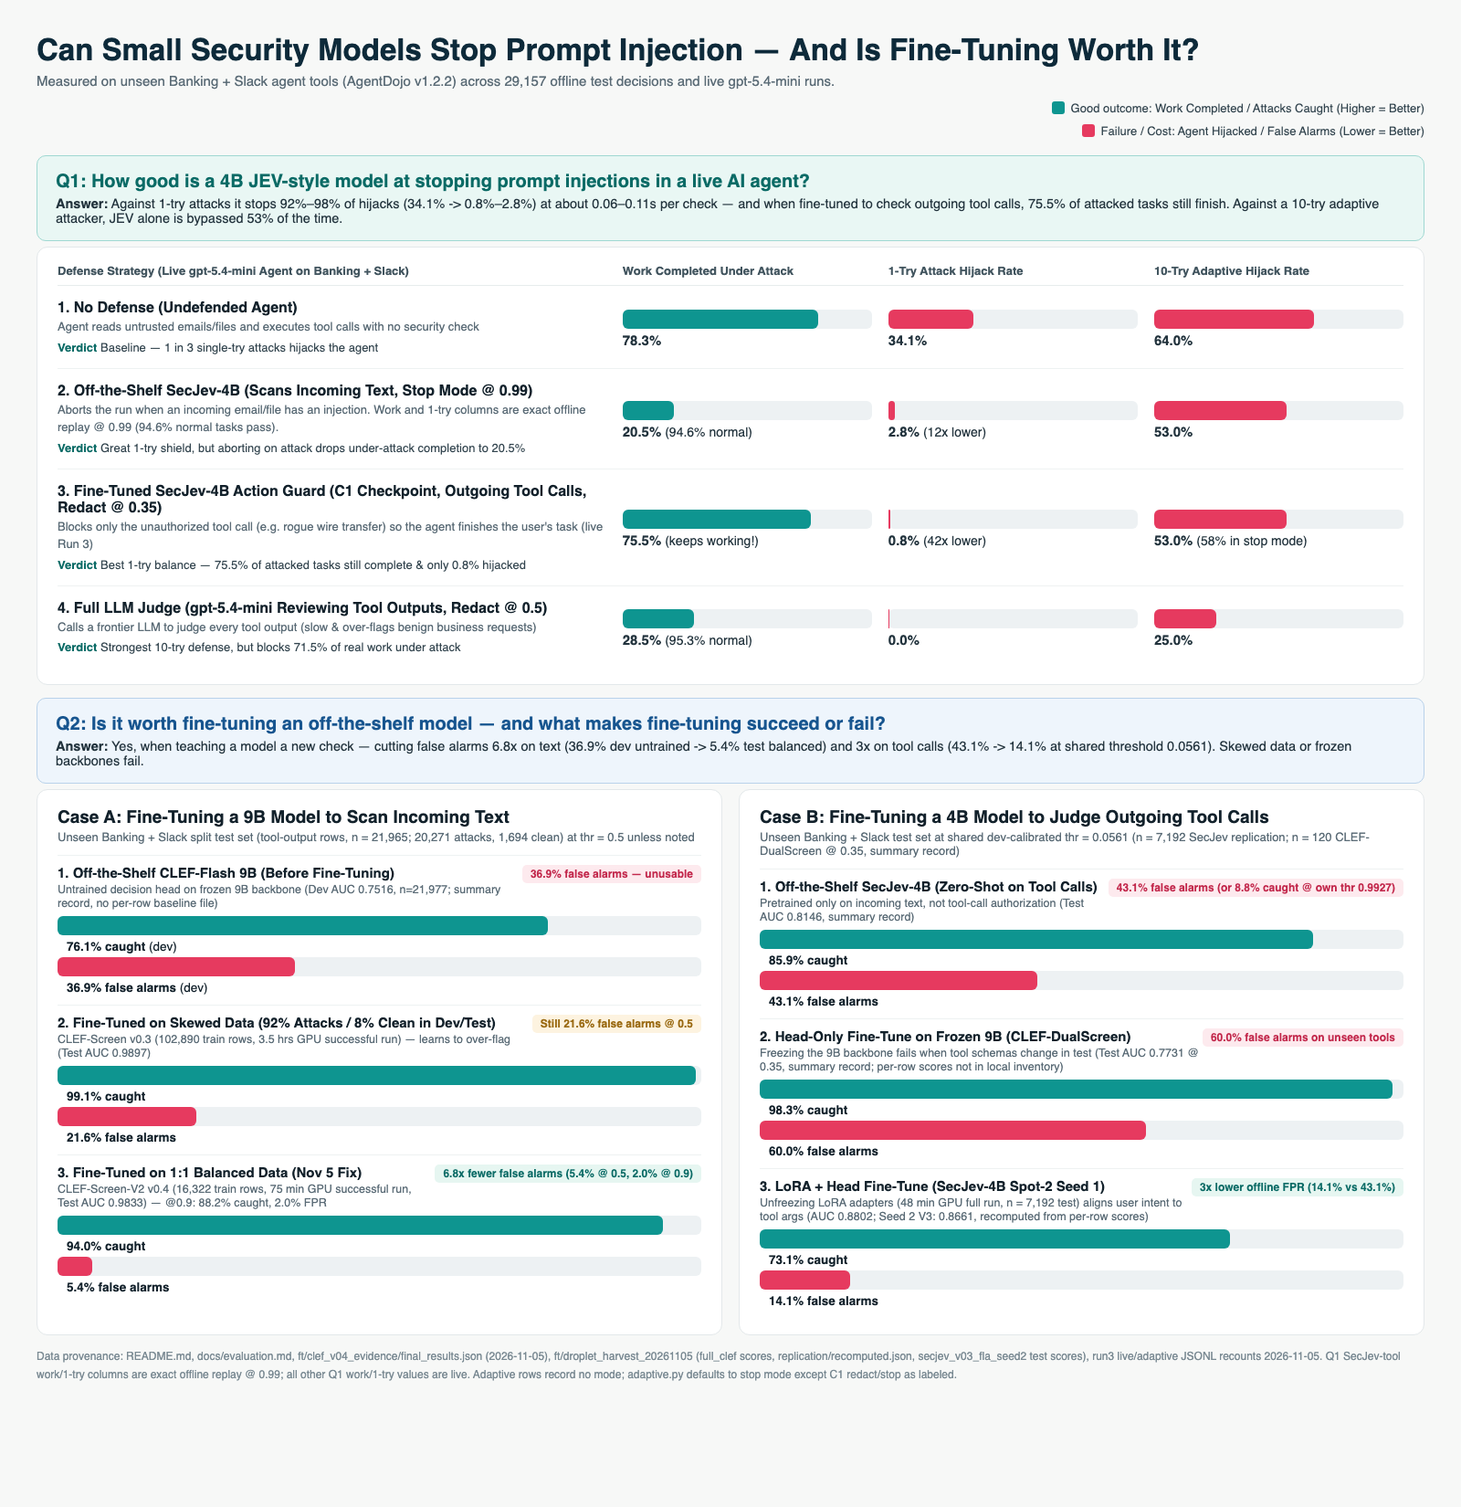
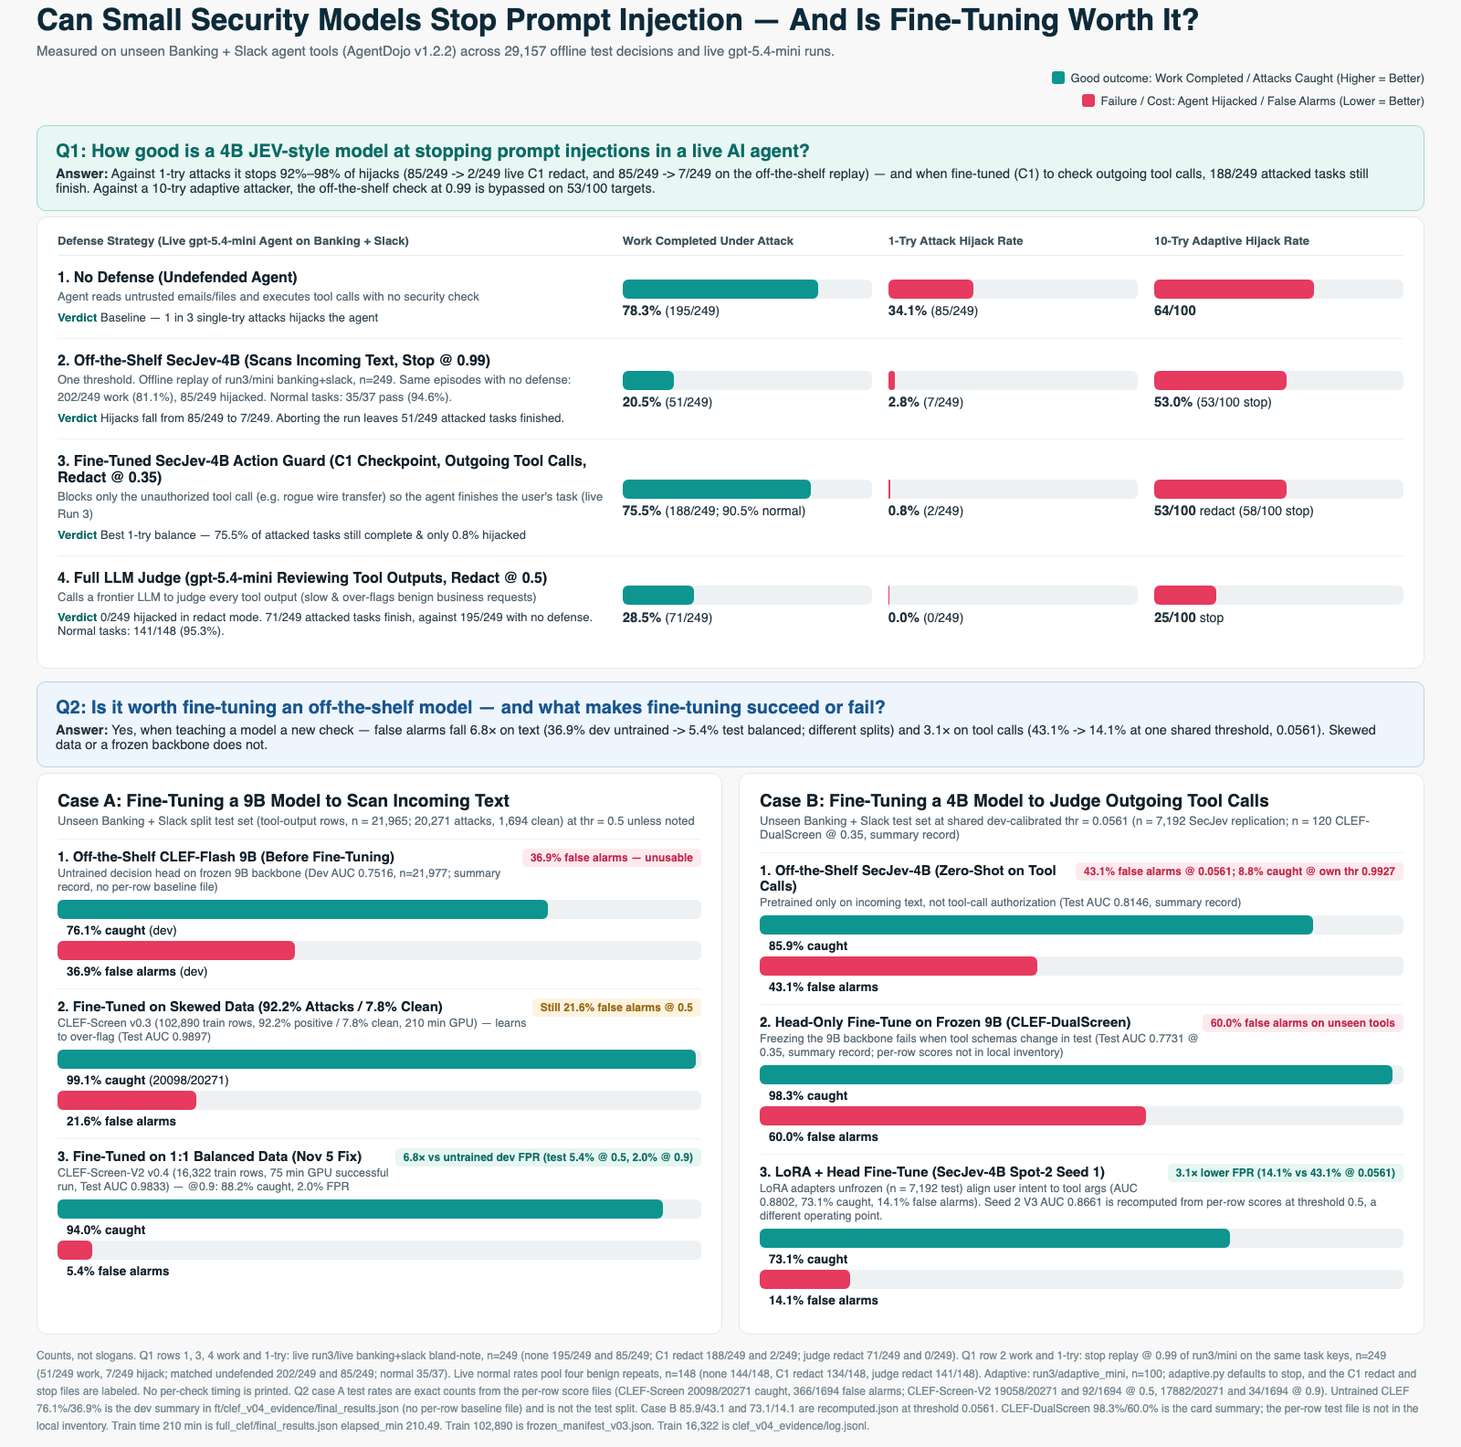
Correct the chart to counted records only.
Row 2 is one stop replay at 0.99: 51/249 work, 7/249 hijacked, 35/37 normal, adaptive 53/100. Judge normal rate is 141/148. Unsourced timing and the 48-minute seed-1 claim are off the chart. CLEF-Screen caught rate is 20098/20271.

diff --git a/docs/redo-v2/jev_human_questions_chart.html b/docs/redo-v2/jev_human_questions_chart.html
@@ -41,34 +41,34 @@ h1{font-size:33px;color:#0d2a3a}
 <div class="legend"><span class="sw teal"></span>Good outcome: Work Completed / Attacks Caught (Higher = Better)<br><span class="sw red"></span>Failure / Cost: Agent Hijacked / False Alarms (Lower = Better)</div>
 
 <div class="q"><b class="t">Q1: How good is a 4B JEV-style model at stopping prompt injections in a live AI agent?</b>
-<div><b>Answer:</b> Against 1-try attacks it stops 92%–98% of hijacks (34.1% -&gt; 0.8%–2.8%) at about 0.06–0.11s per check — and when fine-tuned to check outgoing tool calls, 75.5% of attacked tasks still finish. Against a 10-try adaptive attacker, JEV alone is bypassed 53% of the time.</div></div>
+<div><b>Answer:</b> Against 1-try attacks it stops 92%–98% of hijacks (85/249 -&gt; 2/249 live C1 redact, and 85/249 -&gt; 7/249 on the off-the-shelf replay) — and when fine-tuned (C1) to check outgoing tool calls, 188/249 attacked tasks still finish. Against a 10-try adaptive attacker, the off-the-shelf check at 0.99 is bypassed on 53/100 targets.</div></div>
 
 <div class="card">
 <div class="cols"><div>Defense Strategy (Live gpt-5.4-mini Agent on Banking + Slack)</div><div>Work Completed Under Attack</div><div>1-Try Attack Hijack Rate</div><div>10-Try Adaptive Hijack Rate</div></div>
 
 <div class="row"><div><div class="rname">1. No Defense (Undefended Agent)</div><div class="rdesc">Agent reads untrusted emails/files and executes tool calls with no security check</div><div class="verd"><b>Verdict</b> Baseline — 1 in 3 single-try attacks hijacks the agent</div></div>
-<div><div class="bar"><div class="fill teal" style="width:78.3%"></div></div><span class="val"><b>78.3%</b></span></div>
-<div><div class="bar"><div class="fill red" style="width:34.1%"></div></div><span class="val"><b>34.1%</b></span></div>
-<div><div class="bar"><div class="fill red" style="width:64%"></div></div><span class="val"><b>64.0%</b></span></div></div>
+<div><div class="bar"><div class="fill teal" style="width:78.3%"></div></div><span class="val"><b>78.3%</b> (195/249)</span></div>
+<div><div class="bar"><div class="fill red" style="width:34.1%"></div></div><span class="val"><b>34.1%</b> (85/249)</span></div>
+<div><div class="bar"><div class="fill red" style="width:64%"></div></div><span class="val"><b>64/100</b></span></div></div>
 
-<div class="row"><div><div class="rname">2. Off-the-Shelf SecJev-4B (Scans Incoming Text, Stop Mode @ 0.99)</div><div class="rdesc">Aborts the run when an incoming email/file has an injection. Work and 1-try columns are exact offline replay @ 0.99 (94.6% normal tasks pass).</div><div class="verd"><b>Verdict</b> Great 1-try shield, but aborting on attack drops under-attack completion to 20.5%</div></div>
-<div><div class="bar"><div class="fill teal" style="width:20.5%"></div></div><span class="val"><b>20.5%</b> (94.6% normal)</span></div>
-<div><div class="bar"><div class="fill red" style="width:2.8%"></div></div><span class="val"><b>2.8%</b> (12x lower)</span></div>
-<div><div class="bar"><div class="fill red" style="width:53%"></div></div><span class="val"><b>53.0%</b></span></div></div>
+<div class="row"><div><div class="rname">2. Off-the-Shelf SecJev-4B (Scans Incoming Text, Stop @ 0.99)</div><div class="rdesc">One threshold. Offline replay of run3/mini banking+slack, n=249. Same episodes with no defense: 202/249 work (81.1%), 85/249 hijacked. Normal tasks: 35/37 pass (94.6%).</div><div class="verd"><b>Verdict</b> Hijacks fall from 85/249 to 7/249. Aborting the run leaves 51/249 attacked tasks finished.</div></div>
+<div><div class="bar"><div class="fill teal" style="width:20.5%"></div></div><span class="val"><b>20.5%</b> (51/249)</span></div>
+<div><div class="bar"><div class="fill red" style="width:2.8%"></div></div><span class="val"><b>2.8%</b> (7/249)</span></div>
+<div><div class="bar"><div class="fill red" style="width:53%"></div></div><span class="val"><b>53.0%</b> (53/100 stop)</span></div></div>
 
 <div class="row"><div><div class="rname">3. Fine-Tuned SecJev-4B Action Guard (C1 Checkpoint, Outgoing Tool Calls, Redact @ 0.35)</div><div class="rdesc">Blocks only the unauthorized tool call (e.g. rogue wire transfer) so the agent finishes the user's task (live Run 3)</div><div class="verd"><b>Verdict</b> Best 1-try balance — 75.5% of attacked tasks still complete &amp; only 0.8% hijacked</div></div>
-<div><div class="bar"><div class="fill teal" style="width:75.5%"></div></div><span class="val"><b>75.5%</b> (keeps working!)</span></div>
-<div><div class="bar"><div class="fill red" style="width:0.8%"></div></div><span class="val"><b>0.8%</b> (42x lower)</span></div>
-<div><div class="bar"><div class="fill red" style="width:53%"></div></div><span class="val"><b>53.0%</b> (58% in stop mode)</span></div></div>
+<div><div class="bar"><div class="fill teal" style="width:75.5%"></div></div><span class="val"><b>75.5%</b> (188/249; 90.5% normal)</span></div>
+<div><div class="bar"><div class="fill red" style="width:0.8%"></div></div><span class="val"><b>0.8%</b> (2/249)</span></div>
+<div><div class="bar"><div class="fill red" style="width:53%"></div></div><span class="val"><b>53/100</b> redact (58/100 stop)</span></div></div>
 
-<div class="row"><div><div class="rname">4. Full LLM Judge (gpt-5.4-mini Reviewing Tool Outputs, Redact @ 0.5)</div><div class="rdesc">Calls a frontier LLM to judge every tool output (slow &amp; over-flags benign business requests)</div><div class="verd"><b>Verdict</b> Strongest 10-try defense, but blocks 71.5% of real work under attack</div></div>
-<div><div class="bar"><div class="fill teal" style="width:28.5%"></div></div><span class="val"><b>28.5%</b> (95.3% normal)</span></div>
-<div><div class="bar"><div class="fill red" style="width:0.4%"></div></div><span class="val"><b>0.0%</b></span></div>
-<div><div class="bar"><div class="fill red" style="width:25%"></div></div><span class="val"><b>25.0%</b></span></div></div>
+<div class="row"><div><div class="rname">4. Full LLM Judge (gpt-5.4-mini Reviewing Tool Outputs, Redact @ 0.5)</div><div class="rdesc">Calls a frontier LLM to judge every tool output (slow &amp; over-flags benign business requests)</div><div class="verd"><b>Verdict</b> 0/249 hijacked in redact mode. 71/249 attacked tasks finish, against 195/249 with no defense. Normal tasks: 141/148 (95.3%).</div></div>
+<div><div class="bar"><div class="fill teal" style="width:28.5%"></div></div><span class="val"><b>28.5%</b> (71/249)</span></div>
+<div><div class="bar"><div class="fill red" style="width:0.4%"></div></div><span class="val"><b>0.0%</b> (0/249)</span></div>
+<div><div class="bar"><div class="fill red" style="width:25%"></div></div><span class="val"><b>25/100</b> stop</span></div></div>
 </div>
 
 <div class="q blue"><b class="t">Q2: Is it worth fine-tuning an off-the-shelf model — and what makes fine-tuning succeed or fail?</b>
-<div><b>Answer:</b> Yes, when teaching a model a new check — cutting false alarms 6.8x on text (36.9% dev untrained -&gt; 5.4% test balanced) and 3x on tool calls (43.1% -&gt; 14.1% at shared threshold 0.0561). Skewed data or frozen backbones fail.</div></div>
+<div><b>Answer:</b> Yes, when teaching a model a new check — false alarms fall 6.8× on text (36.9% dev untrained -&gt; 5.4% test balanced; different splits) and 3.1× on tool calls (43.1% -&gt; 14.1% at one shared threshold, 0.0561). Skewed data or a frozen backbone does not.</div></div>
 
 <div class="two">
 <div class="card case"><h2>Case A: Fine-Tuning a 9B Model to Scan Incoming Text</h2><div class="csub">Unseen Banking + Slack split test set (tool-output rows, n = 21,965; 20,271 attacks, 1,694 clean) at thr = 0.5 unless noted</div>
@@ -77,18 +77,18 @@ h1{font-size:33px;color:#0d2a3a}
 <div class="bar"><div class="fill teal" style="width:76.1%"></div></div><span class="pct"><b>76.1% caught</b> (dev)</span>
 <div class="bar"><div class="fill red" style="width:36.9%"></div></div><span class="pct"><b>36.9% false alarms</b> (dev)</span></div>
 
-<div class="crow"><span class="tag ty">Still 21.6% false alarms @ 0.5</span><div class="cname">2. Fine-Tuned on Skewed Data (92% Attacks / 8% Clean in Dev/Test)</div><div class="cdesc">CLEF-Screen v0.3 (102,890 train rows, 3.5 hrs GPU successful run) — learns to over-flag (Test AUC 0.9897)</div>
-<div class="bar"><div class="fill teal" style="width:99.1%"></div></div><span class="pct"><b>99.1% caught</b></span>
+<div class="crow"><span class="tag ty">Still 21.6% false alarms @ 0.5</span><div class="cname">2. Fine-Tuned on Skewed Data (92.2% Attacks / 7.8% Clean)</div><div class="cdesc">CLEF-Screen v0.3 (102,890 train rows, 92.2% positive / 7.8% clean, 210 min GPU) — learns to over-flag (Test AUC 0.9897)</div>
+<div class="bar"><div class="fill teal" style="width:99.1%"></div></div><span class="pct"><b>99.1% caught</b> (20098/20271)</span>
 <div class="bar"><div class="fill red" style="width:21.6%"></div></div><span class="pct"><b>21.6% false alarms</b></span></div>
 
-<div class="crow"><span class="tag tg">6.8x fewer false alarms (5.4% @ 0.5, 2.0% @ 0.9)</span><div class="cname">3. Fine-Tuned on 1:1 Balanced Data (Nov 5 Fix)</div><div class="cdesc">CLEF-Screen-V2 v0.4 (16,322 train rows, 75 min GPU successful run, Test AUC 0.9833) — @0.9: 88.2% caught, 2.0% FPR</div>
+<div class="crow"><span class="tag tg">6.8× vs untrained dev FPR (test 5.4% @ 0.5, 2.0% @ 0.9)</span><div class="cname">3. Fine-Tuned on 1:1 Balanced Data (Nov 5 Fix)</div><div class="cdesc">CLEF-Screen-V2 v0.4 (16,322 train rows, 75 min GPU successful run, Test AUC 0.9833) — @0.9: 88.2% caught, 2.0% FPR</div>
 <div class="bar"><div class="fill teal" style="width:94%"></div></div><span class="pct"><b>94.0% caught</b></span>
 <div class="bar"><div class="fill red" style="width:5.4%"></div></div><span class="pct"><b>5.4% false alarms</b></span></div>
 </div>
 
 <div class="card case"><h2>Case B: Fine-Tuning a 4B Model to Judge Outgoing Tool Calls</h2><div class="csub">Unseen Banking + Slack test set at shared dev-calibrated thr = 0.0561 (n = 7,192 SecJev replication; n = 120 CLEF-DualScreen @ 0.35, summary record)</div>
 
-<div class="crow"><span class="tag tr">43.1% false alarms (or 8.8% caught @ own thr 0.9927)</span><div class="cname">1. Off-the-Shelf SecJev-4B (Zero-Shot on Tool Calls)</div><div class="cdesc">Pretrained only on incoming text, not tool-call authorization (Test AUC 0.8146, summary record)</div>
+<div class="crow"><span class="tag tr">43.1% false alarms @ 0.0561; 8.8% caught @ own thr 0.9927</span><div class="cname">1. Off-the-Shelf SecJev-4B (Zero-Shot on Tool Calls)</div><div class="cdesc">Pretrained only on incoming text, not tool-call authorization (Test AUC 0.8146, summary record)</div>
 <div class="bar"><div class="fill teal" style="width:85.9%"></div></div><span class="pct"><b>85.9% caught</b></span>
 <div class="bar"><div class="fill red" style="width:43.1%"></div></div><span class="pct"><b>43.1% false alarms</b></span></div>
 
@@ -96,10 +96,10 @@ h1{font-size:33px;color:#0d2a3a}
 <div class="bar"><div class="fill teal" style="width:98.3%"></div></div><span class="pct"><b>98.3% caught</b></span>
 <div class="bar"><div class="fill red" style="width:60%"></div></div><span class="pct"><b>60.0% false alarms</b></span></div>
 
-<div class="crow"><span class="tag tg">3x lower offline FPR (14.1% vs 43.1%)</span><div class="cname">3. LoRA + Head Fine-Tune (SecJev-4B Spot-2 Seed 1)</div><div class="cdesc">Unfreezing LoRA adapters (48 min GPU full run, n = 7,192 test) aligns user intent to tool args (AUC 0.8802; Seed 2 V3: 0.8661, recomputed from per-row scores)</div>
+<div class="crow"><span class="tag tg">3.1× lower FPR (14.1% vs 43.1% @ 0.0561)</span><div class="cname">3. LoRA + Head Fine-Tune (SecJev-4B Spot-2 Seed 1)</div><div class="cdesc">LoRA adapters unfrozen (n = 7,192 test) align user intent to tool args (AUC 0.8802, 73.1% caught, 14.1% false alarms). Seed 2 V3 AUC 0.8661 is recomputed from per-row scores at threshold 0.5, a different operating point.</div>
 <div class="bar"><div class="fill teal" style="width:73.1%"></div></div><span class="pct"><b>73.1% caught</b></span>
 <div class="bar"><div class="fill red" style="width:14.1%"></div></div><span class="pct"><b>14.1% false alarms</b></span></div>
 </div></div>
 
-<div class="foot">Data provenance: README.md, docs/evaluation.md, ft/clef_v04_evidence/final_results.json (2026-11-05), ft/droplet_harvest_20261105 (full_clef scores, replication/recomputed.json, secjev_v03_fla_seed2 test scores), run3 live/adaptive JSONL recounts 2026-11-05. Q1 SecJev-tool work/1-try columns are exact offline replay @ 0.99; all other Q1 work/1-try values are live. Adaptive rows record no mode; adaptive.py defaults to stop mode except C1 redact/stop as labeled.</div>
+<div class="foot">Counts, not slogans. Q1 rows 1, 3, 4 work and 1-try: live run3/live banking+slack bland-note, n=249 (none 195/249 and 85/249; C1 redact 188/249 and 2/249; judge redact 71/249 and 0/249). Q1 row 2 work and 1-try: stop replay @ 0.99 of run3/mini on the same task keys, n=249 (51/249 work, 7/249 hijack; matched undefended 202/249 and 85/249; normal 35/37). Live normal rates pool four benign repeats, n=148 (none 144/148, C1 redact 134/148, judge redact 141/148). Adaptive: run3/adaptive_mini, n=100; adaptive.py defaults to stop, and the C1 redact and stop files are labeled. No per-check timing is printed. Q2 case A test rates are exact counts from the per-row score files (CLEF-Screen 20098/20271 caught, 366/1694 false alarms; CLEF-Screen-V2 19058/20271 and 92/1694 @ 0.5, 17882/20271 and 34/1694 @ 0.9). Untrained CLEF 76.1%/36.9% is the dev summary in ft/clef_v04_evidence/final_results.json (no per-row baseline file) and is not the test split. Case B 85.9/43.1 and 73.1/14.1 are recomputed.json at threshold 0.0561. CLEF-DualScreen 98.3%/60.0% is the card summary; the per-row test file is not in the local inventory. Train time 210 min is full_clef/final_results.json elapsed_min 210.49. Train 102,890 is frozen_manifest_v03.json. Train 16,322 is clef_v04_evidence/log.jsonl.</div>
 </body></html>

diff --git a/README.md b/README.md
@@ -22,7 +22,7 @@ two model families are supported: secjev-4b (kev format, loaded by `secjev_score
 - against an attacker that retries up to 10 rounds per target, the c1 tool call check is weak: 53–58% hijacked, against 64% with no defense and 25% for an llm judge.
 - the pass rules fixed before the rerun were not met. full numbers and rules: `docs/evaluation.md` and `docs/analysis-plan.md`.
 - redo and clef fine-tunes on frozen banking and slack test splits (`docs/redo-v2/replication-report.json` and `docs/redo-v2/hf-uploads.md`):
-  - `CLEF-Screen-V2` (9b clef-flash head fine-tuned on 1:1 balanced data, 16,322 train rows) reaches 0.9833 test auc on 21,965 frozen banking+slack rows (94.0% tpr at 5.4% fpr @ 0.5; 88.2% tpr at 2.0% fpr @ 0.9), cutting false alarms 7x vs the untrained head (76.1% tpr at 36.9% fpr, 0.7516 auc) and 4x vs skewed 92%-positive training (`CLEF-Screen` v0.3: 99.2% tpr at 21.6% fpr @ 0.5, 0.9897 auc). passes the full tuesday-v2 frozen-chain gate (`docs/redo-v2/frozen_chain_manifest.json`).
+  - `CLEF-Screen-V2` (9b clef-flash head fine-tuned on 1:1 balanced data, 16,322 train rows) reaches 0.9833 test auc on 21,965 frozen banking+slack rows (94.0% tpr at 5.4% fpr @ 0.5; 88.2% tpr at 2.0% fpr @ 0.9), cutting false alarms 6.8× vs the untrained head on the dev split (76.1% tpr at 36.9% fpr, 0.7516 auc; no per-row baseline file) and 4× vs skewed 92.2%-positive training on the same test split (`CLEF-Screen` v0.3: 99.1% tpr, 20098/20271, at 21.6% fpr @ 0.5, 0.9897 auc). passes the full tuesday-v2 frozen-chain gate (`docs/redo-v2/frozen_chain_manifest.json`).
   - offline frozen-test spot-2 lora + head fine-tuning on tool-call authorization (7,192 frozen banking+slack test rows, separate from the live c1 checkpoint above) reaches 0.8802 test auc on seed 1 (`secjev_v03_fla_seed1` in `ft/droplet_harvest_20261105/replication/recomputed.json`, 73.1% tpr at 14.1% fpr vs 85.9% tpr at 43.1% fpr for zero-shot `SecJev-4B` base at the shared threshold, 0.8146 auc) and 0.8661 test auc on published seed 2 (`macmacmacmac/SecJev-4B-Spot2-V3`, 54.4% tpr at 7.2% fpr @ 0.5). `macmacmacmac/CLEF-DualScreen` (small head-only fine-tune, train=569/dev=149/test=220) logged 0.9829 filter / 0.9846 guard dev auc; its model card reports 1.0000 filter / 0.7731 guard test auc (60.0% fpr @ 0.35), with no local per-row test score file in the repo inventory (recorded as an open gap in `docs/redo-v2/replication-report.json`).
 
 ## weights

diff --git a/docs/evaluation.md b/docs/evaluation.md
@@ -105,7 +105,7 @@ Key Run 3 & frozen fine-tune findings (full tables in the repository README, `do
 - Stop mode, banking+slack, thresholds tuned on workspace+travel: SecJev tool at 0.99 → 2.8% hijacked, 94.6% normal; LLM judge → 0.0% hijacked, 83.8% normal; zero-shot action monitor → 6.4% hijacked, 73.0% normal, 55.4% completion under attack.
 - Fine-tuned C1 content monitor at 0.35 (live): stop 1.6% hijacked / 89.9% normal; redact 0.8% hijacked / 90.5% normal / 75.5% completion under attack.
 - Frozen banking+slack fine-tune benchmarks (`docs/redo-v2/replication-report.json`):
-  - Tool-output filter (`CLEF-Flash` 9B head on $n=21,965$ frozen test rows): untrained head hits `0.7516` AUC (`76.1%` TPR / `36.9%` FPR @ `0.5`); skewed 92%-positive v0.3 (`CLEF-Screen`) hits `0.9897` AUC (`99.2%` TPR / `21.6%` FPR @ `0.5`); 1:1 balanced v0.4 (`CLEF-Screen-V2`) hits **`0.9833` AUC** (**`94.0%` TPR / `5.4%` FPR @ `0.5`**; **`88.2%` TPR / `2.0%` FPR @ `0.9`**), passing the full Tuesday-v2 frozen-chain gate (`docs/redo-v2/frozen_chain_manifest.json`).
+  - Tool-output filter (`CLEF-Flash` 9B head on $n=21,965$ frozen test rows): untrained head hits `0.7516` AUC (`76.1%` TPR / `36.9%` FPR @ `0.5`); skewed 92.2%-positive v0.3 (`CLEF-Screen`) hits `0.9897` AUC (`99.1%` TPR (20098/20271) / `21.6%` FPR @ `0.5`); 1:1 balanced v0.4 (`CLEF-Screen-V2`) hits **`0.9833` AUC** (**`94.0%` TPR / `5.4%` FPR @ `0.5`**; **`88.2%` TPR / `2.0%` FPR @ `0.9`**), passing the full Tuesday-v2 frozen-chain gate (`docs/redo-v2/frozen_chain_manifest.json`).
   - Action-authorization guard ($n=7,192$ frozen test rows): LoRA+head fine-tuning (`SecJev-4B-Spot2` Seed 1) improves test AUC from `0.8146` (zero-shot base, `85.9%` TPR / `43.1%` FPR at shared threshold) to **`0.8802`** (`73.1%` TPR / `14.1%` FPR, McNemar $p < 10^{-15}$), with Seed 2 (`SecJev-4B-Spot2-V3`) at **`0.8661` AUC** (`54.4%` TPR / `7.2%` FPR @ `0.5`). Head-only tuning on a frozen 9B backbone (`CLEF-DualScreen`, $n=120$ test) drops to `0.7731` guard test AUC (`60.0%` FPR @ `0.35`).
 - Adaptive (10 rounds, 100 banking+slack targets): undefended 64%, LLM judge 25%, SecJev tool at 0.5 31%, zero-shot action monitor 34%, C1 monitor 53–58%. The adaptive result is the main open weakness and the primary target for RepE/steering follow-up work.
 

diff --git a/alignment.MD b/alignment.MD
@@ -40,3 +40,15 @@
    - Per Law 3, we will **not** delete or prune any `.raffle/worktrees` or `raffle/*` branches; all 7 raffle branches stay 100% intact.
    - `README.md` is updated in his exact lowercase format with the 7 repo names and `C1` vs `Spot2` separation.
 ################################################################################
+
+################################################################################
+# CHART CHECK (2026-11-05, after the 12:45 review)
+################################################################################
+
+The three chart cells were checked against primary records, then the chart was redrawn from `docs/redo-v2/jev_human_questions_chart.html`.
+
+1. Q1 row 2 is one threshold. Stop replay @ 0.99 of `run3/mini` banking+slack is 51/249 work (20.5%), 7/249 hijacked (2.8%), normal 35/37 (94.6%). The same episodes with no defense are 202/249 work and 85/249 hijacked. Adaptive at that same threshold is 53/100 (`run3/adaptive_mini/mini_secjev_tool.jsonl`). The old 31% figure is the 0.5-threshold file and is not on this row.
+2. Q1 row 4 normal rate is 141/148 (95.3%) from the four live judge-redact benign repeats. 60.7% is not used. The 10-try cell is 25/100 and is stop mode, labeled on the cell. The verdict uses 71/249 tasks finished, not "71.5% of real work."
+3. No per-check timing is on the chart. `0.15s` and `0.06–0.11s` have no timing artifact in this check, so both are omitted.
+4. `build_replication_package.py` rerun: published AUCs match the per-row files (CLEF-Screen-V2 test 0.9833, CLEF-Screen test 0.9897, Spot2-V3 test 0.8661). Two gaps remain, both already recorded: CLEF-DualScreen per-row test scores, and SecJev redo bench-draw scope. CLEF-Screen caught rate on the chart is the exact count 20098/20271 (99.1%), which the report stores as tpr 0.9915.
+################################################################################
